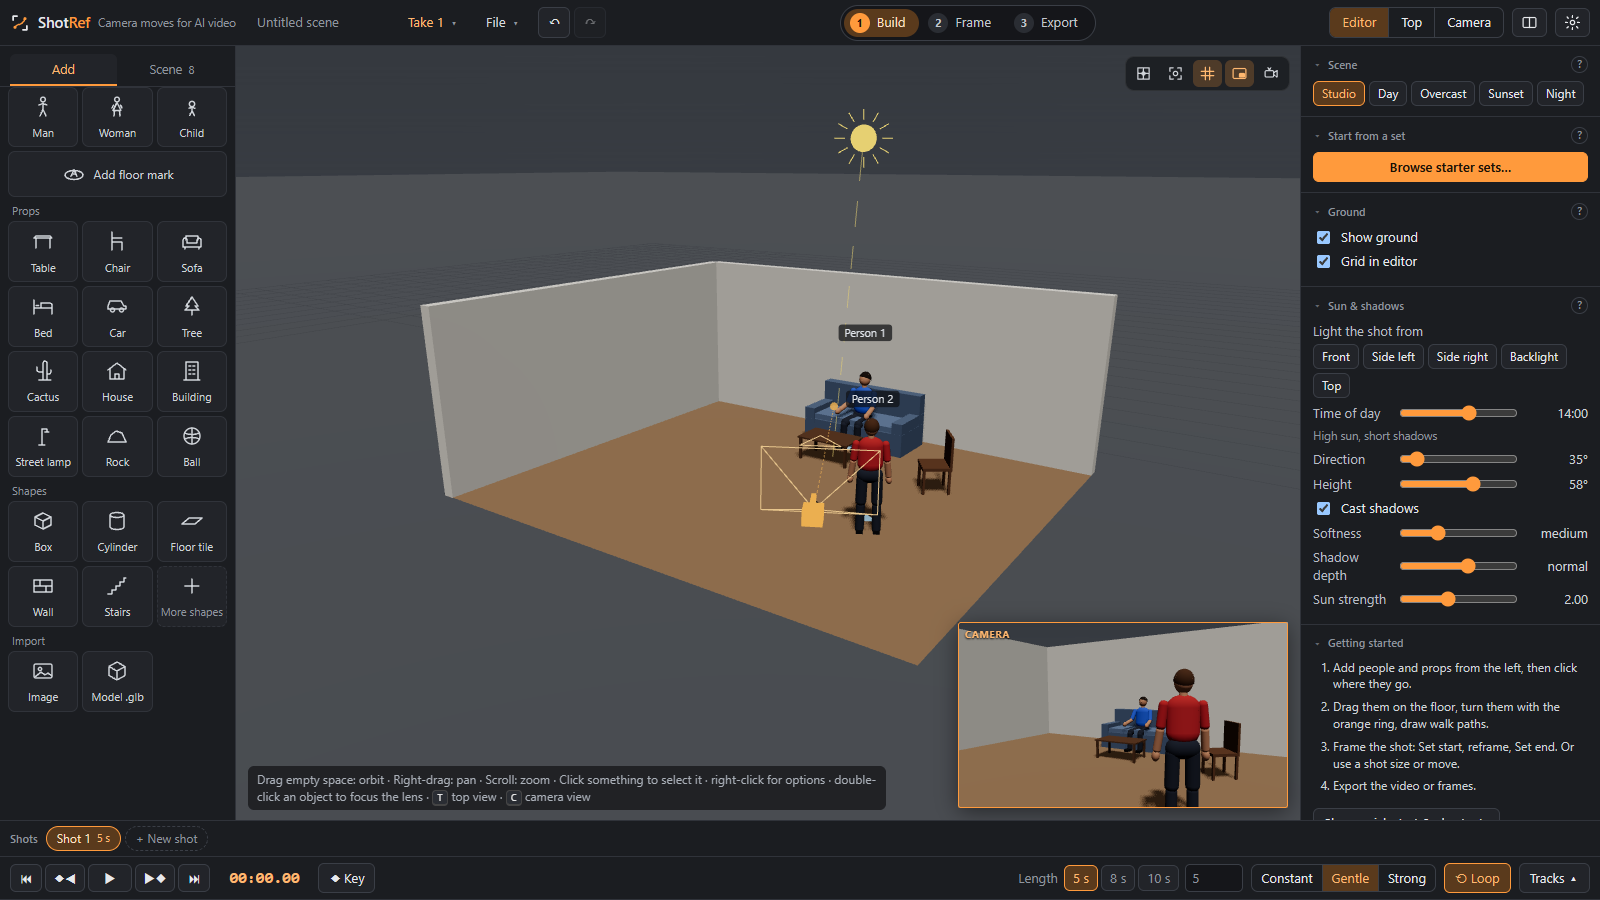
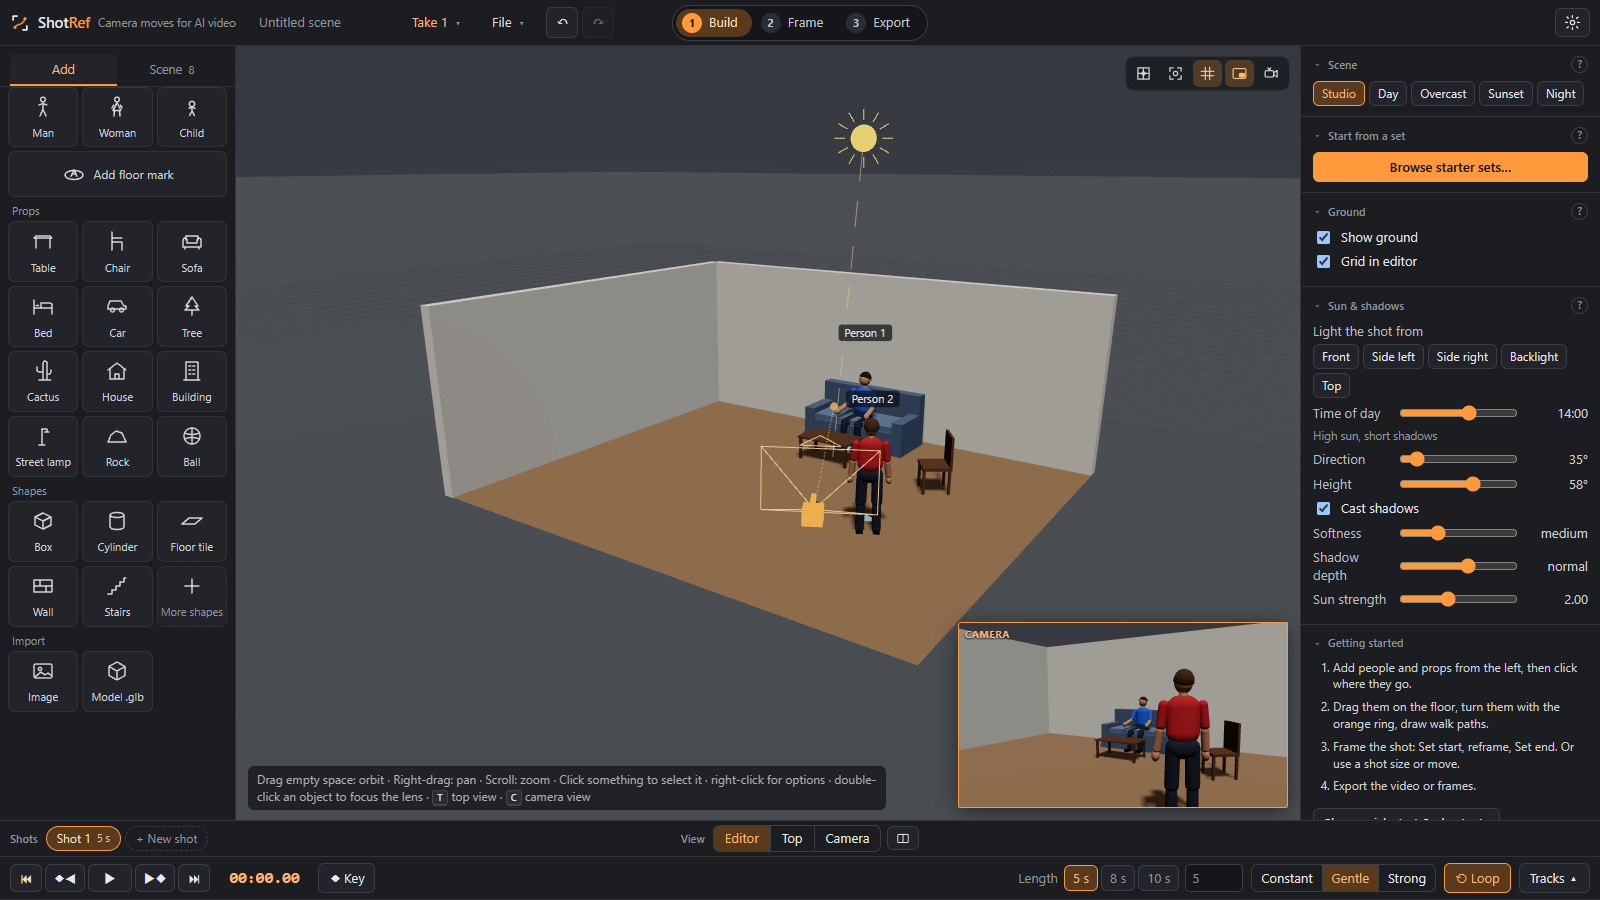
Move Editor/Top/Camera and split view into a centred View group in the Shots row
The top bar now has equal left and right halves so the step bar stays centred.
New smoke check for the layout. Quick start text, user guide and README
screenshots updated.

diff --git a/src/index.html b/src/index.html
@@ -36,6 +36,8 @@ select,input[type=text],input[type=number]{background:#15161a;border:1px solid v
 input[type=color]{width:34px;height:24px;padding:0;border:1px solid var(--line2);border-radius:5px;background:none;cursor:pointer}
 input[type=range]{accent-color:var(--acc);width:100%}
 #app{display:grid;height:100vh;grid-template-columns:236px minmax(0,1fr) 300px;grid-template-rows:46px minmax(0,1fr) auto;grid-template-areas:"top top top" "left vp right" "tl tl tl"}
+.topL,.topR{display:flex;align-items:center;gap:10px;flex:1 1 0;min-width:0}
+.topR{justify-content:flex-end}
 #top{grid-area:top;display:flex;align-items:center;gap:10px;padding:0 10px;background:var(--panel);border-bottom:1px solid var(--line)}
 .brand{display:flex;align-items:center;gap:8px;font-weight:600;font-size:15px;letter-spacing:-.2px;margin-right:6px}
 .brand .mark{width:20px;height:20px;flex:none}.brand .r{color:var(--acc)}
@@ -127,7 +129,15 @@ button.icon svg,.ib svg{width:17px;height:17px;stroke:currentColor;fill:none;str
 .sval{width:62px;text-align:right;color:#cdd1d6;font-variant-numeric:tabular-nums}
 /* timeline */
 #tl{grid-area:tl;background:var(--panel);border-top:1px solid var(--line);display:flex;flex-direction:column;min-height:90px;max-height:216px}
-#shotBar{display:flex;align-items:center;gap:4px;padding:5px 10px;border-bottom:1px solid var(--line);overflow-x:auto;min-height:34px;flex:none}
+#shotRow{display:grid;grid-template-columns:minmax(0,1fr) auto minmax(0,1fr);align-items:center;gap:10px;padding:0 10px;border-bottom:1px solid var(--line);min-height:34px;flex:none}
+#shotBar{display:flex;align-items:center;gap:4px;padding:5px 0;overflow-x:auto;min-width:0}
+#viewGrp{display:flex;align-items:center;gap:6px;flex:none}
+#viewGrp .seg button{padding:3px 11px}
+#viewGrp .icon{width:28px;height:24px}
+#viewGrp .lbl{color:var(--mute);font-size:11px;font-weight:600;margin-right:2px;width:auto}
+#shotSide{display:flex;align-items:center;justify-content:flex-end;gap:4px;min-width:0}
+#shotSide .note{overflow:hidden;text-overflow:ellipsis;white-space:nowrap;min-width:0}
+#shotSide button{padding:3px 9px;font-size:12px;flex:none}
 #shotBar .lbl{color:var(--mute);font-size:11px;font-weight:600;margin-right:4px;width:auto}
 #shotBar input{width:130px;padding:2px 6px;font-size:12px}
 .shotchip{display:flex;align-items:center;gap:6px;padding:3px 10px;border-radius:14px;font-size:12px;background:var(--panel2);white-space:nowrap}
@@ -135,8 +145,6 @@ button.icon svg,.ib svg{width:17px;height:17px;stroke:currentColor;fill:none;str
 .shotchip.on{background:var(--accd);border-color:var(--acc);color:#ffe3c6}
 .shotchip.on small{color:var(--acc2)}
 .shotchip.add{background:transparent;border-style:dashed;color:var(--mute)}
-#shotBar .sright{margin-left:auto;display:flex;gap:4px}
-#shotBar .sright button{padding:3px 9px;font-size:12px}
 .promptbox{width:100%;min-height:150px;resize:vertical;background:#15161a;border:1px solid var(--line2);border-radius:7px;color:#e7e9ec;font:12.5px/1.5 "Segoe UI",system-ui,sans-serif;padding:8px 9px}
 .expgrid{display:grid;grid-template-columns:1fr 1fr;gap:5px}
 .expgrid .wide{grid-column:span 2}
@@ -344,28 +352,22 @@ button.icon.on{background:var(--accd);color:var(--acc2)}
 <body>
 <div id="app">
   <header id="top">
-    <div class="brand" title="ShotRef"><svg class="mark" viewBox="0 0 32 32" aria-hidden="true"><path d="M5 12V5h7M20 27h7v-7" fill="none" stroke="#E7E9EC" stroke-width="2.6" stroke-linecap="round" stroke-linejoin="round"/><path d="M8 23C13 15 19 22 24 9" fill="none" stroke="#FF9A3C" stroke-width="2.4" stroke-linecap="round"/><circle cx="8" cy="23" r="2.4" fill="#FF9A3C"/><circle cx="24" cy="9" r="2.4" fill="#FF9A3C"/></svg><span class="name">Shot<span class="r">Ref</span></span> <small>Camera moves for AI video</small></div>
-    <input id="projName" type="text" placeholder="Untitled scene" aria-label="Project name" title="Project name (click to rename)" spellcheck="false" maxlength="80" autocomplete="off">
-    <button id="bTake" class="menubtn" aria-haspopup="menu" title="Takes: alternative versions of this scene you can switch between and compare">Take 1</button>
-    <button id="bFile" class="menubtn" aria-haspopup="menu" title="New, open, save and export">File</button>
-    <div class="grp">
-      <button id="bUndo" class="icon" aria-label="Undo" title="Undo (Ctrl+Z)">↶</button>
-      <button id="bRedo" class="icon" aria-label="Redo" title="Redo (Ctrl+Y)">↷</button>
+    <div class="topL">
+      <div class="brand" title="ShotRef"><svg class="mark" viewBox="0 0 32 32" aria-hidden="true"><path d="M5 12V5h7M20 27h7v-7" fill="none" stroke="#E7E9EC" stroke-width="2.6" stroke-linecap="round" stroke-linejoin="round"/><path d="M8 23C13 15 19 22 24 9" fill="none" stroke="#FF9A3C" stroke-width="2.4" stroke-linecap="round"/><circle cx="8" cy="23" r="2.4" fill="#FF9A3C"/><circle cx="24" cy="9" r="2.4" fill="#FF9A3C"/></svg><span class="name">Shot<span class="r">Ref</span></span> <small>Camera moves for AI video</small></div>
+      <input id="projName" type="text" placeholder="Untitled scene" aria-label="Project name" title="Project name (click to rename)" spellcheck="false" maxlength="80" autocomplete="off">
+      <button id="bTake" class="menubtn" aria-haspopup="menu" title="Takes: alternative versions of this scene you can switch between and compare">Take 1</button>
+      <button id="bFile" class="menubtn" aria-haspopup="menu" title="New, open, save and export">File</button>
+      <div class="grp">
+        <button id="bUndo" class="icon" aria-label="Undo" title="Undo (Ctrl+Z)">↶</button>
+        <button id="bRedo" class="icon" aria-label="Redo" title="Redo (Ctrl+Y)">↷</button>
+      </div>
     </div>
-    <div class="spacer"></div>
     <div class="stepseg" id="stepSeg" role="group" aria-label="Work in three steps">
       <button data-step="build" title="Add and place people and props (1)"><b>1</b>Build</button>
       <button data-step="frame" title="Frame the shot and set the camera move (2)"><b>2</b>Frame</button>
       <button id="bExport" data-step="export" title="Video, frames and images to export (3)"><b>3</b>Export</button>
     </div>
-    <div class="spacer"></div>
-    <div class="seg" id="viewSeg">
-      <button data-v="editor" title="Free 3D view to build the scene">Editor</button>
-      <button data-v="top" title="Overhead floor-plan view for blocking (T)">Top</button>
-      <button data-v="camera" title="Look through the shot camera (C)">Camera</button>
-    </div>
-    <button id="bSplit" class="icon" aria-pressed="false" aria-label="Split view: editor and camera side by side" title="Split view: editor and camera side by side"><svg viewBox="0 0 24 24" aria-hidden="true"><rect x="3" y="5" width="18" height="14" rx="2"/><path d="M12 5v14"/></svg></button>
-    <button id="bMenu" class="icon" aria-haspopup="menu" aria-label="Settings and help" title="Settings, Advanced controls and help"><svg viewBox="0 0 24 24" aria-hidden="true"><circle cx="12" cy="12" r="3"/><path d="M12 2v3M12 19v3M4.2 4.2l2.1 2.1M17.7 17.7l2.1 2.1M2 12h3M19 12h3M4.2 19.8l2.1-2.1M17.7 6.3l2.1-2.1"/></svg></button>
+    <div class="topR"><button id="bMenu" class="icon" aria-haspopup="menu" aria-label="Settings and help" title="Settings, Advanced controls and help"><svg viewBox="0 0 24 24" aria-hidden="true"><circle cx="12" cy="12" r="3"/><path d="M12 2v3M12 19v3M4.2 4.2l2.1 2.1M17.7 17.7l2.1 2.1M2 12h3M19 12h3M4.2 19.8l2.1-2.1M17.7 6.3l2.1-2.1"/></svg></button></div>
   </header>
 
   <aside id="left">
@@ -410,7 +412,19 @@ button.icon.on{background:var(--accd);color:var(--acc2)}
   <aside id="right"><div id="props"></div></aside>
 
   <footer id="tl">
-    <div id="shotBar"></div>
+    <div id="shotRow">
+      <div id="shotBar"></div>
+      <div id="viewGrp" role="group" aria-label="View">
+        <span class="lbl">View</span>
+      <div class="seg" id="viewSeg">
+        <button data-v="editor" title="Free 3D view to build the scene">Editor</button>
+        <button data-v="top" title="Overhead floor-plan view for blocking (T)">Top</button>
+        <button data-v="camera" title="Look through the shot camera (C)">Camera</button>
+      </div>
+        <button id="bSplit" class="icon" aria-pressed="false" aria-label="Split view: editor and camera side by side" title="Split view: editor and camera side by side"><svg viewBox="0 0 24 24" aria-hidden="true"><rect x="3" y="5" width="18" height="14" rx="2"/><path d="M12 5v14"/></svg></button>
+      </div>
+      <div id="shotSide"></div>
+    </div>
     <div id="tlBar">
       <div class="tp">
         <button id="bStart" title="Go to start (Home)">⏮</button>
@@ -507,7 +521,7 @@ button.icon.on{background:var(--accd);color:var(--acc2)}
     <li><b>Block it.</b> Drag people and props across the floor; drag the orange ring to turn them (let go over a person or the camera and they face it). Shift-click picks several to move together; <span class="kbd">Ctrl G</span> groups them. <b>Top view</b> (<span class="kbd">T</span>) works like a floor plan.</li>
     <li><b>Move people.</b> Select a person, press <b>Draw walk path</b> and click points on the floor, or send them to a floor mark with an arrival time. Drag them onto a chair, sofa or bed to sit them down (drag away to stand). Pick a pose later in the shot to change it mid-shot: it shows as a blue tag on the timeline. The eye button over a person makes them look at the camera.</li>
     <li><b>Right-click</b> anything for what you can do with it: add a person here, walk them to a mark, frame a medium shot, face the camera, duplicate, hide. Right-click the floor to add things or aim the camera there. Right-drag still pans.</li>
-    <li><b>Frame the shot.</b> In <b>Camera view</b> (<span class="kbd">C</span>) drag to orbit, right-drag to pan, scroll to dolly, <span class="kbd">W A S D Q E</span> to fly. Or use a shot size: Wide, Medium, Close-up… The <b>split view</b> button (top bar) puts the editor on the left and the camera on the right: whichever half the pointer is over is the one you steer.</li>
+    <li><b>Frame the shot.</b> In <b>Camera view</b> (<span class="kbd">C</span>) drag to orbit, right-drag to pan, scroll to dolly, <span class="kbd">W A S D Q E</span> to fly. Or use a shot size: Wide, Medium, Close-up… The <b>split view</b> button (next to View, under the picture) puts the editor on the left and the camera on the right: whichever half the pointer is over is the one you steer.</li>
     <li><b>Make the move.</b> Press <b>Set start</b>, reframe, press <b>Set end</b>. Or pick a one-click move, or <b>● Record</b> and operate the camera live.</li>
     <li><b>Export</b> (step 3, or press <span class="kbd">3</span>): an MP4, the current frame, or a frame pack (start, middle and end frames plus the prompt) for image-to-video models. Several shots? Add them with + New shot.</li>
   </ol>

diff --git a/src/main.js b/src/main.js
@@ -3948,7 +3948,8 @@ function renderShotBar() {
     bar.append(chip);
   }
   bar.append(h('button', { class: 'shotchip add', onclick: () => newShot(false), title: 'A new camera setup on the same scene and action, starting from the current framing' }, '+ New shot'));
-  bar.append(h('div', { class: 'sright' }, list.length > 1 ? h('span', { id: 'lenNote', class: 'note', style: 'margin:0;align-self:center' }, "Changes this shot's camera move only. The action stays the same in every shot.") : null, list.length > 1 ? h('button', { id: 'bSheet', onclick: makeContactSheet, title: 'First and last frame of every shot on one page' }, 'Contact sheet') : null));
+  const side = $('#shotSide'); side.innerHTML = '';
+  side.append(...[list.length > 1 ? h('span', { id: 'lenNote', class: 'note', style: 'margin:0;align-self:center' }, "Changes this shot's camera move only. The action stays the same in every shot.") : null, list.length > 1 ? h('button', { id: 'bSheet', onclick: makeContactSheet, title: 'First and last frame of every shot on one page' }, 'Contact sheet') : null].filter(Boolean));
 }
 
 /* ============================== the prompt for the AI model ============================== */

diff --git a/PROJECT.md b/PROJECT.md
@@ -10,7 +10,7 @@ Works:   ShotRef 1.2.0 = the claude.ai version's features (artifact 6uRy4QMBjvK9
          Right-click menus, double-click lens focus, Build/Frame/Export steps, takes + compare, shots + shot bar, Export panel + AI prompt, frame pack, contact sheet,
          multi-select/lock/groups, people (body types, eyeline, sitting, actions), parenting/ground/camera mount, camera tabs, light/sun, My sets, Recent projects, Settings, split view.
 Builds:  dist/ShotRef.html (1.0 MB). Windows: release/ShotRef-Setup-1.2.0.exe (122 MB), release/ShotRef-1.2.0-portable.exe (111 MB), unsigned.
-Tests:   npm test 265/265 (~9 min, last run on 1.2.0; no page code changed since), npm run test:desktop 21/21 (7 new update checks). Final whole-port review: Ready.
+Tests:   npm test 266/266 (~8 min, includes the new View-row check), npm run test:desktop 21/21 (7 new update checks). Final whole-port review: Ready.
 Code:    PUBLIC GitHub https://github.com/alistotleLB/ShotRef (main), MIT. Release v1.2.0 published 2026-11-24 (README, docs/GUIDE.md, screenshots in docs/img).
 Updates: desktop app 1.3.0 (built, NOT yet released) checks GitHub Releases (electron/updater.cjs); ship with `npm run dist:win` then `npm run publish:win`.
 Known:   walking feet slide slightly at heel strike (same in the claude.ai version). Minor parity leftovers listed in docs/plans (toolbar order, Add tab order, hint wording).
@@ -94,6 +94,7 @@ Storage: build output in `dist/` (git-ignored).
 | N-006 | 2026-11-23 | (asked where the newer version's source is) "Only on claude.ai" | done 2026-11-24 |
 | N-008 | 2026-11-24 | "Can you publish the latest release on github, along with proper basic documentation, and screenshots. Make it read to attract users." | done 2026-11-24 (repo public, MIT, v1.2.0; unsigned: Ali chose to publish anyway) |
 | N-009 | 2026-11-24 | "Please add an update mechanism to the desktop app so I'm able to update the app whenever a make changes to the github." | built 2026-11-24 as 1.3.0, awaiting release + Ali's try-out (guessed: electron-updater, ask-before-download, Help menu check + auto-check switch, portable only opens the download page) |
+| N-010 | 2026-11-24 | (screenshot with arrow) "Move these buttons as pet the arrow, and give them a title of \"View\" .. In their place, add a \"Camera Settings\" button..." then "skip the camera settings button for now" (the Frame step already opens that panel) | done 2026-11-24 (Editor/Top/Camera + split moved to a centred View group in the Shots row; not released yet) |
 | N-007 | 2026-11-23 | "dont forget to orchestrate the tasks across Opus and Sonnet for maximum efficiency" | done (Sonnet built, Opus reviewed, medium effort) |
 
 ### Approved and locked     (changing these needs Ali's yes)
@@ -151,3 +152,4 @@ NEXT      Ali runs C3:
 - 2026-11-24 claude.ai artifact 6uRy4QMBjvK9Rn5PLedSUq republished from the 1.2.0 build with the Desert overlook demo embedded (Ali: "Yes, republish it"). Checked headless first: 23 objects + photo, 0 errors.
 - 2026-11-24 repo made public (MIT), release v1.2.0 with installer, portable exe and ShotRef.html; README + user guide + 6 screenshots. Ali chose to publish unsigned.
 - 2026-11-24 update mechanism: electron-updater ^6.8 (only runtime dependency; three and mp4-muxer moved to devDependencies), electron/updater.cjs, Help menu items, scripts/publish-release.mjs, version 1.3.0. test:desktop 21/21. Packaged app launched and reached GitHub (404 on v1.2.0: no latest.yml yet, handled silently). Not tested: quitAndInstall (the install step) and a real update from an installed copy: needs 1.3.0 released, installed, then a later release.
+- 2026-11-24 View buttons moved from the top bar into a centred "View" group in the Shots row (#shotRow: chips | View | contact sheet). Top bar is now two equal halves so the step bar stays centred (#top .topL/.topR). Found by tests and a screenshot: step bar off-centre, row 1 px too tall, and a stray "null" text. npm test 266/266, test:desktop 21/21. Docs and 6 README screenshots retaken. Not released (version still 1.3.0).

diff --git a/docs/GUIDE.md b/docs/GUIDE.md
@@ -15,7 +15,7 @@ The bar at the top has three steps. Press `1`, `2` or `3` to jump between them.
 | **2 · Frame** | Look through the camera, then set where it starts and ends. |
 | **3 · Export** | Render the video or frames and copy the prompt. |
 
-You have three **views**, top right. Use whichever suits the job.
+You have three **views**. The **View** buttons are in the row under the picture, between the Shots chips and the Contact sheet button. Use whichever suits the job.
 
 | View | Key | Use it for |
 |---|---|---|
